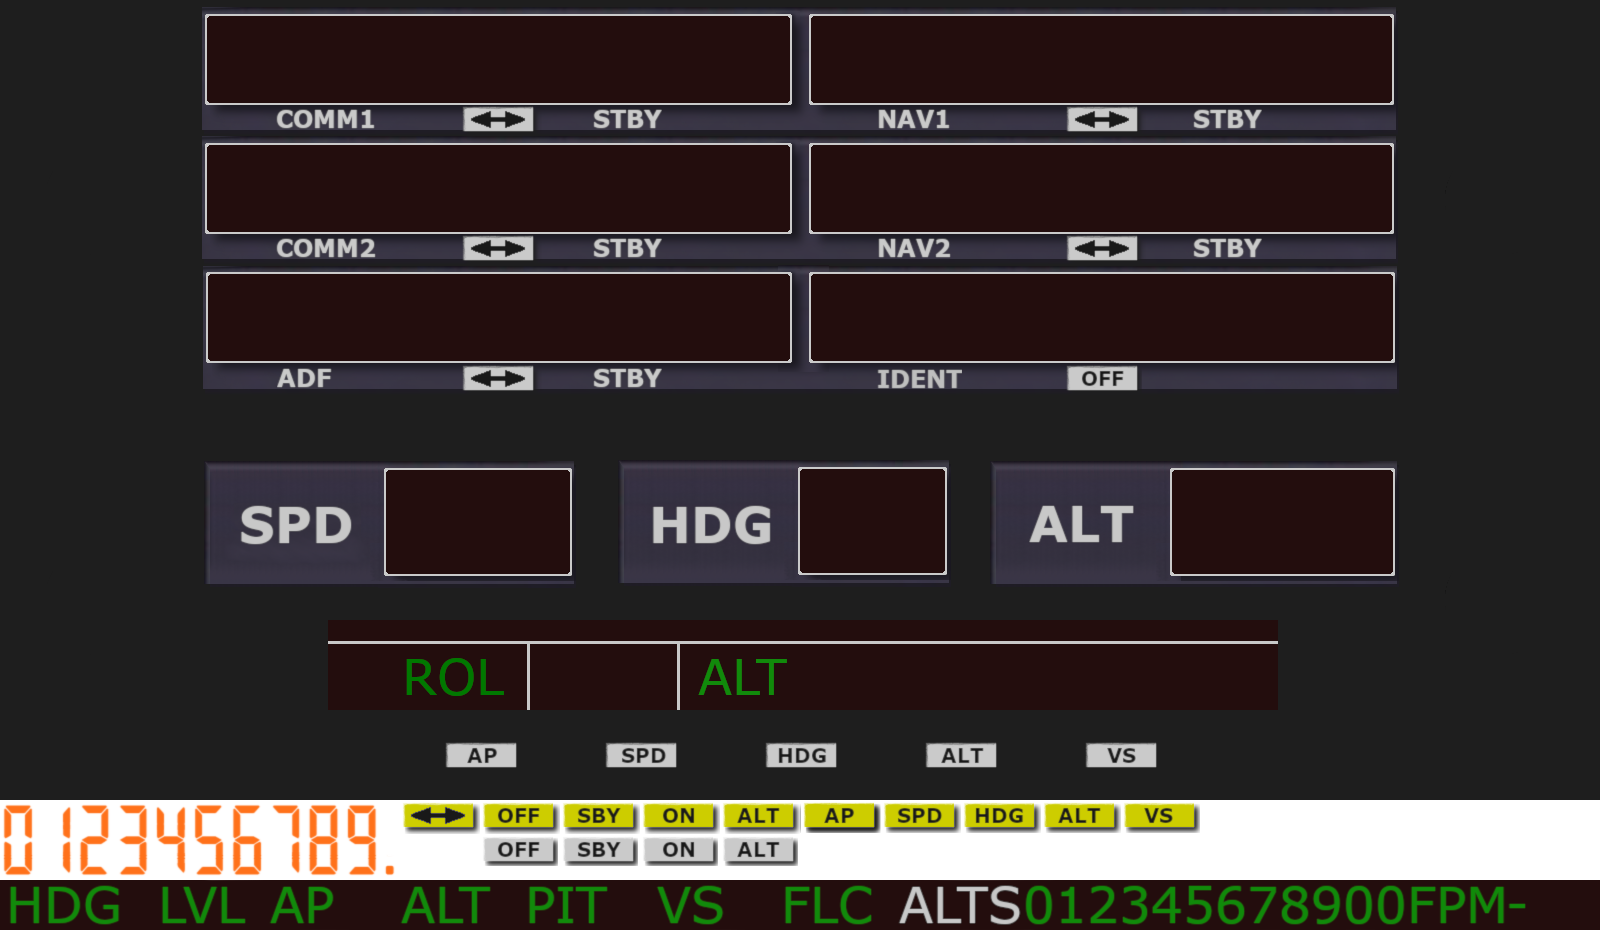
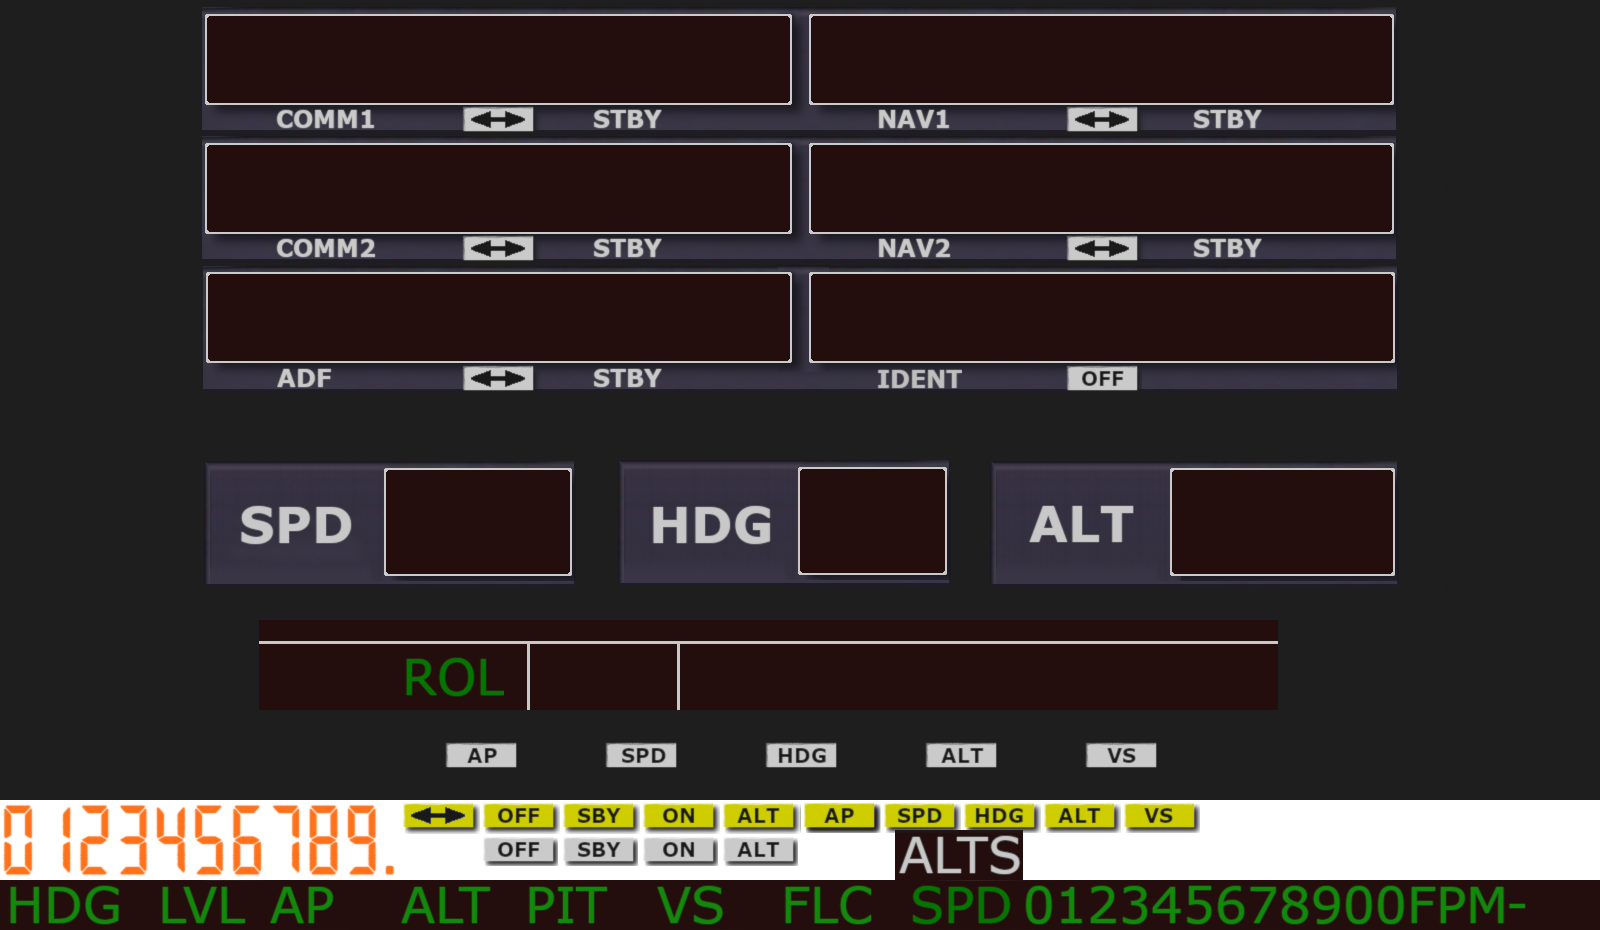
Fix autopilot

Changed region(s): [[0.5625, 0.8731, 0.6562, 0.9978], [0.4375, 0.7172, 0.5, 0.7484]]

diff --git a/instrument-panel/instruments/nav.cpp b/instrument-panel/instruments/nav.cpp
@@ -113,6 +113,12 @@ void nav::resize()
     al_draw_bitmap_region(orig, 1506, 880, 23, 50, 0, 0, 0);
     addBitmap(bmp);
 
+    // 14 = Autopilot ALTS display
+    bmp = al_create_bitmap(128, 50);
+    al_set_target_bitmap(bmp);
+    al_draw_bitmap_region(orig, 896, 830, 128, 50, 0, 0, 0);
+    addBitmap(bmp);
+
     al_set_target_backbuffer(globals.display);
 }
 
@@ -224,15 +230,22 @@ void nav::renderAutopilot()
     int destSizeY = 50 * scaleFactor;
 
     // Add autopilot set values
-    if (showMach) {
-        addNum2dp(machX100, 421, 82);
-    }
-    else {
-        addNum4(airspeed, 403, 82, false);
+    if (airspeed > 0) {
+        if (showMach) {
+            addNum2dp(machX100, 421, 82);
+        }
+        else {
+            addNum4(airspeed, 403, 82, false);
+        }
     }
     addNum3(heading, 816, 82);
     addNum5(altitude, 1188, 82, false);
     
+    // Add spd hold display
+    if (autopilotSpd == SpdHold) {
+        al_draw_scaled_bitmap(bitmaps[10], 896, 0, 128, 50, 255 * scaleFactor, 252 * scaleFactor, destSizeX, destSizeY, 0);
+    }
+
     // Add hdg display
     switch (autopilotHdg) {
     case HdgSet:
@@ -261,7 +274,7 @@ void nav::renderAutopilot()
         al_draw_scaled_bitmap(bitmaps[10], 640, 0, 128, 50, 680 * scaleFactor, 252 * scaleFactor, destSizeX, destSizeY, 0);
         addVerticalSpeed(836, 252);
         // Add white alts display
-        al_draw_scaled_bitmap(bitmaps[10], 896, 0, 128, 50, 1115 * scaleFactor, 252 * scaleFactor, destSizeX, destSizeY, 0);
+        al_draw_scaled_bitmap(bitmaps[14], 0, 0, 128, 50, 1115 * scaleFactor, 252 * scaleFactor, destSizeX, destSizeY, 0);
         break;
     }
     case AltChange:
@@ -270,7 +283,7 @@ void nav::renderAutopilot()
         // + S = ALTS
         al_draw_scaled_bitmap(bitmaps[10], 692, 0, 32, 50, 788 * scaleFactor, 252 * scaleFactor, 32 * scaleFactor, destSizeY, 0);
         // Add white alt display
-        al_draw_scaled_bitmap(bitmaps[10], 896, 0, 94, 50, 1115 * scaleFactor, 252 * scaleFactor, 94 * scaleFactor, destSizeY, 0);
+        al_draw_scaled_bitmap(bitmaps[14], 0, 0, 94, 50, 1115 * scaleFactor, 252 * scaleFactor, 94 * scaleFactor, destSizeY, 0);
         break;
     }
 }
@@ -789,6 +802,8 @@ void nav::autopilotSwitchPressed()
     switch (switchSel) {
     case 6:
     {
+        // Capture current values when autopilot enabled
+        captureCurrentValues();
         globals.simVars->write(KEY_AP_MASTER);
         break;
     }
@@ -810,16 +825,6 @@ void nav::autopilotSwitchPressed()
         }
         else {
             // Switch to Airspeed hold.
-            // Set autopilot speed to within 10 knots of current speed
-            int holdSpeed = simVars->asiAirspeed;
-            int tens = holdSpeed % 10;
-            if (tens < 5) {
-                holdSpeed -= tens;
-            }
-            else {
-                holdSpeed += 10 - tens;
-            }
-            globals.simVars->write(KEY_AP_SPD_VAR_SET, holdSpeed);
             globals.simVars->write(KEY_AP_AIRSPEED_ON);
             showMach = false;
         }
@@ -845,16 +850,6 @@ void nav::autopilotSwitchPressed()
         }
         else {
             autopilotAlt = AltHold;
-            // Set autopilot altitude to within 100ft of current altitude
-            int holdAlt = simVars->altAltitude;
-            int hundreds = holdAlt % 100;
-            if (hundreds < 30) {
-                holdAlt -= hundreds;
-            }
-            else {
-                holdAlt += 100 - hundreds;
-            }
-            globals.simVars->write(KEY_AP_ALT_VAR_SET_ENGLISH, holdAlt);
             globals.simVars->write(KEY_AP_ALT_HOLD_ON);
         }
         break;
@@ -868,6 +863,45 @@ void nav::autopilotSwitchPressed()
         break;
     }
     }
+}
+
+void nav::captureCurrentValues()
+{
+    // Set autopilot speed to within 10 knots of current speed
+    int holdSpeed = simVars->asiAirspeed;
+    int tens = holdSpeed % 10;
+    if (tens < 5) {
+        holdSpeed -= tens;
+    }
+    else {
+        holdSpeed += 10 - tens;
+    }
+    globals.simVars->write(KEY_AP_SPD_VAR_SET, holdSpeed);
+
+    // Set autopilot heading to within 10 degrees of current heading
+    int holdHeading = simVars->hiHeading;
+    int lastDigit = holdHeading % 10;
+    if (lastDigit < 5) {
+        holdHeading -= lastDigit;
+    }
+    else {
+        holdHeading += 10 - lastDigit;
+        if (holdHeading > 359) {
+            holdHeading -= 360;
+        }
+    }
+    globals.simVars->write(KEY_HEADING_BUG_SET, holdHeading);
+
+    // Set autopilot altitude to within 100ft of current altitude
+    int holdAlt = simVars->altAltitude;
+    int hundreds = holdAlt % 100;
+    if (hundreds < 30) {
+        holdAlt -= hundreds;
+    }
+    else {
+        holdAlt += 100 - hundreds;
+    }
+    globals.simVars->write(KEY_AP_ALT_VAR_SET_ENGLISH, holdAlt);
 }
 
 void nav::navAdjustDigits(int adjust)

diff --git a/instrument-panel/instruments/trimFlaps.cpp b/instrument-panel/instruments/trimFlaps.cpp
@@ -8,6 +8,7 @@ trimFlaps::trimFlaps(int xPos, int yPos, int size) : instrument(xPos, yPos, size
 {
     setName("Trim Flaps");
     addVars();
+    simVars = &globals.simVars->simVars;
 
 #ifndef _WIN32
     // Only have hardware knobs on Raspberry Pi
@@ -170,6 +171,13 @@ void trimFlaps::render()
 /// </summary>
 void trimFlaps::update()
 {
+    // Check for aircraft change
+    bool aircraftChanged = (loadedAircraft != globals.aircraft);
+    if (aircraftChanged) {
+        loadedAircraft = globals.aircraft;
+        fastAircraft = (loadedAircraft != NO_AIRCRAFT && simVars->cruiseSpeed >= globals.FastAircraftSpeed);
+    }
+
     // Check for position or size change
     long *settings = globals.simVars->readSettings(name, xPos, yPos, size);
 
@@ -187,9 +195,6 @@ void trimFlaps::update()
         updateKnobs();
     }
 #endif
-
-    // Get latest FlightSim variables
-    SimVars* simVars = &globals.simVars->simVars;
 
     // Calculate values
     trimOffset = simVars->tfElevatorTrim * 20.0;
@@ -255,9 +260,15 @@ void trimFlaps::updateKnobs()
     if (val != INT_MIN) {
         if (val > lastTrimVal) {
             globals.simVars->write(KEY_ELEV_TRIM_DN);
+            if (fastAircraft) {
+                globals.simVars->write(KEY_ELEV_TRIM_DN);
+            }
         }
         else if (val < lastTrimVal) {
             globals.simVars->write(KEY_ELEV_TRIM_UP);
+            if (fastAircraft) {
+                globals.simVars->write(KEY_ELEV_TRIM_UP);
+            }
         }
         lastTrimVal = val;
     }
@@ -272,12 +283,12 @@ void trimFlaps::updateKnobs()
         }
         else {
             // Value large enough to trigger yet?
-            if (lastFlapsVal - val > 6) {
+            if (lastFlapsVal - val > 5) {
                 // Flaps down one notch
                 globals.simVars->write(KEY_FLAPS_INCR);
                 lastFlapsVal = val;
             }
-            else if (val - lastFlapsVal > 6) {
+            else if (val - lastFlapsVal > 5) {
                 // Flaps up one notch
                 globals.simVars->write(KEY_FLAPS_DECR);
                 lastFlapsVal = val;

diff --git a/instrument-panel/instruments/nav.h b/instrument-panel/instruments/nav.h
@@ -26,10 +26,10 @@ private:
         AltChange
     };
 
+    SimVars* simVars;
     float scaleFactor;
 
     // Instrument values (calculated from variables and needed to draw the instrument)
-    SimVars* simVars;
     int switchSel = 0;
     int adjustSetSel = 0;
     int com1Freq;
@@ -88,6 +88,7 @@ private:
     void updateKnobs();
     void navSwitchPressed();
     void autopilotSwitchPressed();
+    void captureCurrentValues();
     void navAdjustDigits(int adjust);
     void autopilotAdjustDigits(int adjust);
     double adjustCom(double val, int adjust);

diff --git a/instrument-panel/instruments/alt.cpp b/instrument-panel/instruments/alt.cpp
@@ -8,6 +8,7 @@ alt::alt(int xPos, int yPos, int size) : instrument(xPos, yPos, size)
 {
     setName("ALT");
     addVars();
+    simVars = &globals.simVars->simVars;
 
 #ifndef _WIN32
     // Only have hardware knobs on Raspberry Pi
@@ -16,7 +17,6 @@ alt::alt(int xPos, int yPos, int size) : instrument(xPos, yPos, size)
     }
 #endif
 
-    simVars = &globals.simVars->simVars;
     resize();
 }
 

diff --git a/instrument-panel/instruments/asi.cpp b/instrument-panel/instruments/asi.cpp
@@ -9,6 +9,7 @@ asi::asi(int xPos, int yPos, int size) : instrument(xPos, yPos, size)
 {
     setName("ASI");
     addVars();
+    simVars = &globals.simVars->simVars;
 
 #ifndef _WIN32
     // Only have hardware knobs on Raspberry Pi
@@ -17,7 +18,6 @@ asi::asi(int xPos, int yPos, int size) : instrument(xPos, yPos, size)
     }
 #endif
 
-    simVars = &globals.simVars->simVars;
     resize();
 }
 

diff --git a/instrument-panel/instruments/trimFlaps.h b/instrument-panel/instruments/trimFlaps.h
@@ -1,11 +1,15 @@
 #ifndef _TRIM_FLAPS_H_
 #define _TRIM_FLAPS_H_
 
+#include "simvarDefs.h"
 #include "instrument.h"
 
 class trimFlaps : public instrument
 {
 private:
+    SimVars* simVars;
+    Aircraft loadedAircraft = NO_AIRCRAFT;
+    bool fastAircraft = false;
     float scaleFactor;
 
     // Instrument values (calculated from variables and needed to draw the instrument)
